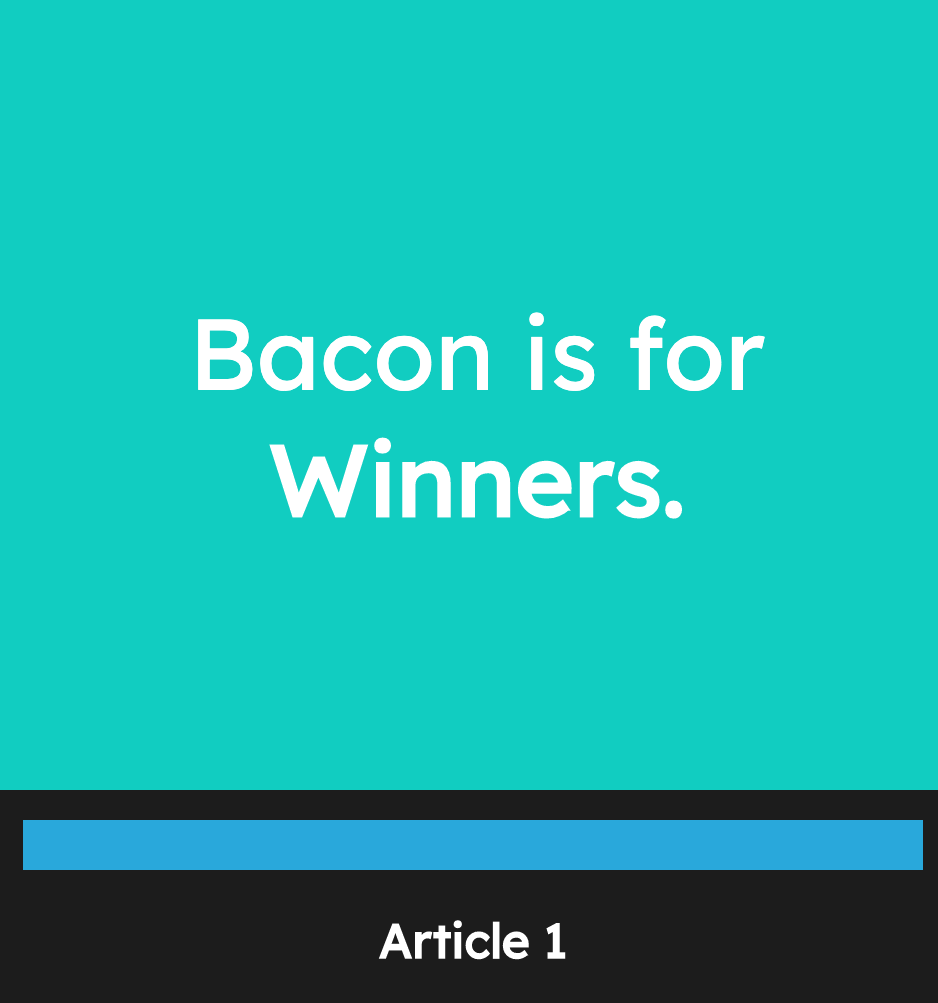
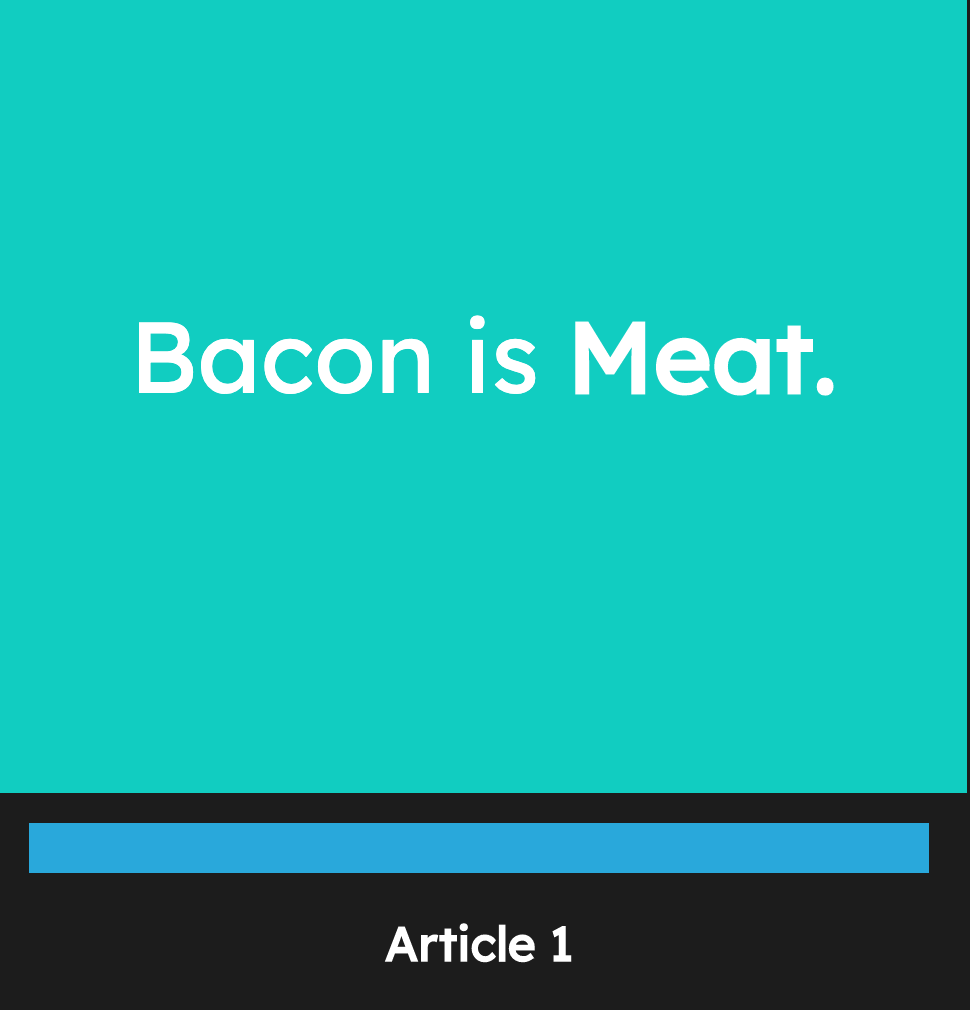
changed some typos

diff --git a/src/portfolio.html b/src/portfolio.html
@@ -32,7 +32,7 @@
     </div>
     <div>
       <img src="./images/bacon.png">
-      <a href="../baconIpsum/indexBacon.html">Bacon is for Meat.</a>
+      <a href="../baconIpsum/indexBacon.html">Bacon is Meat.</a>
     </div>
     <div>
       <img src="./images/ticTac.png">
